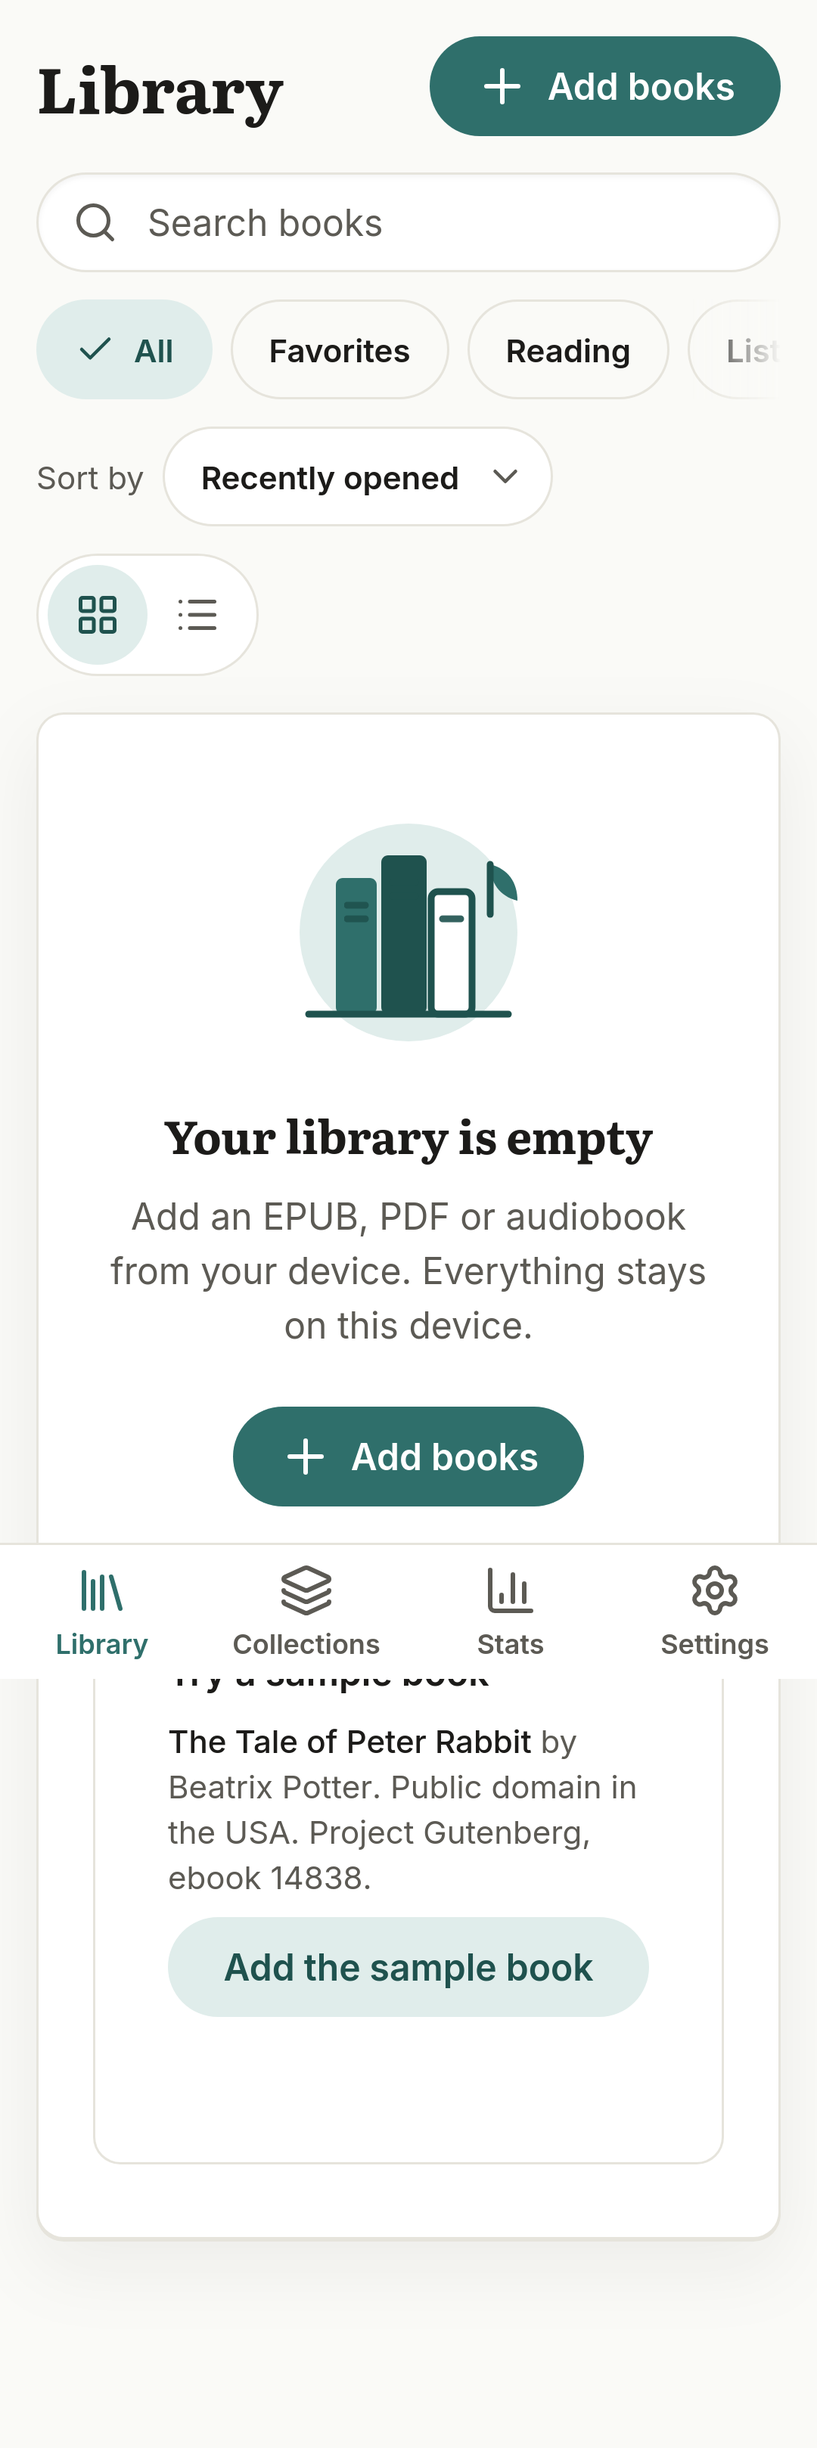
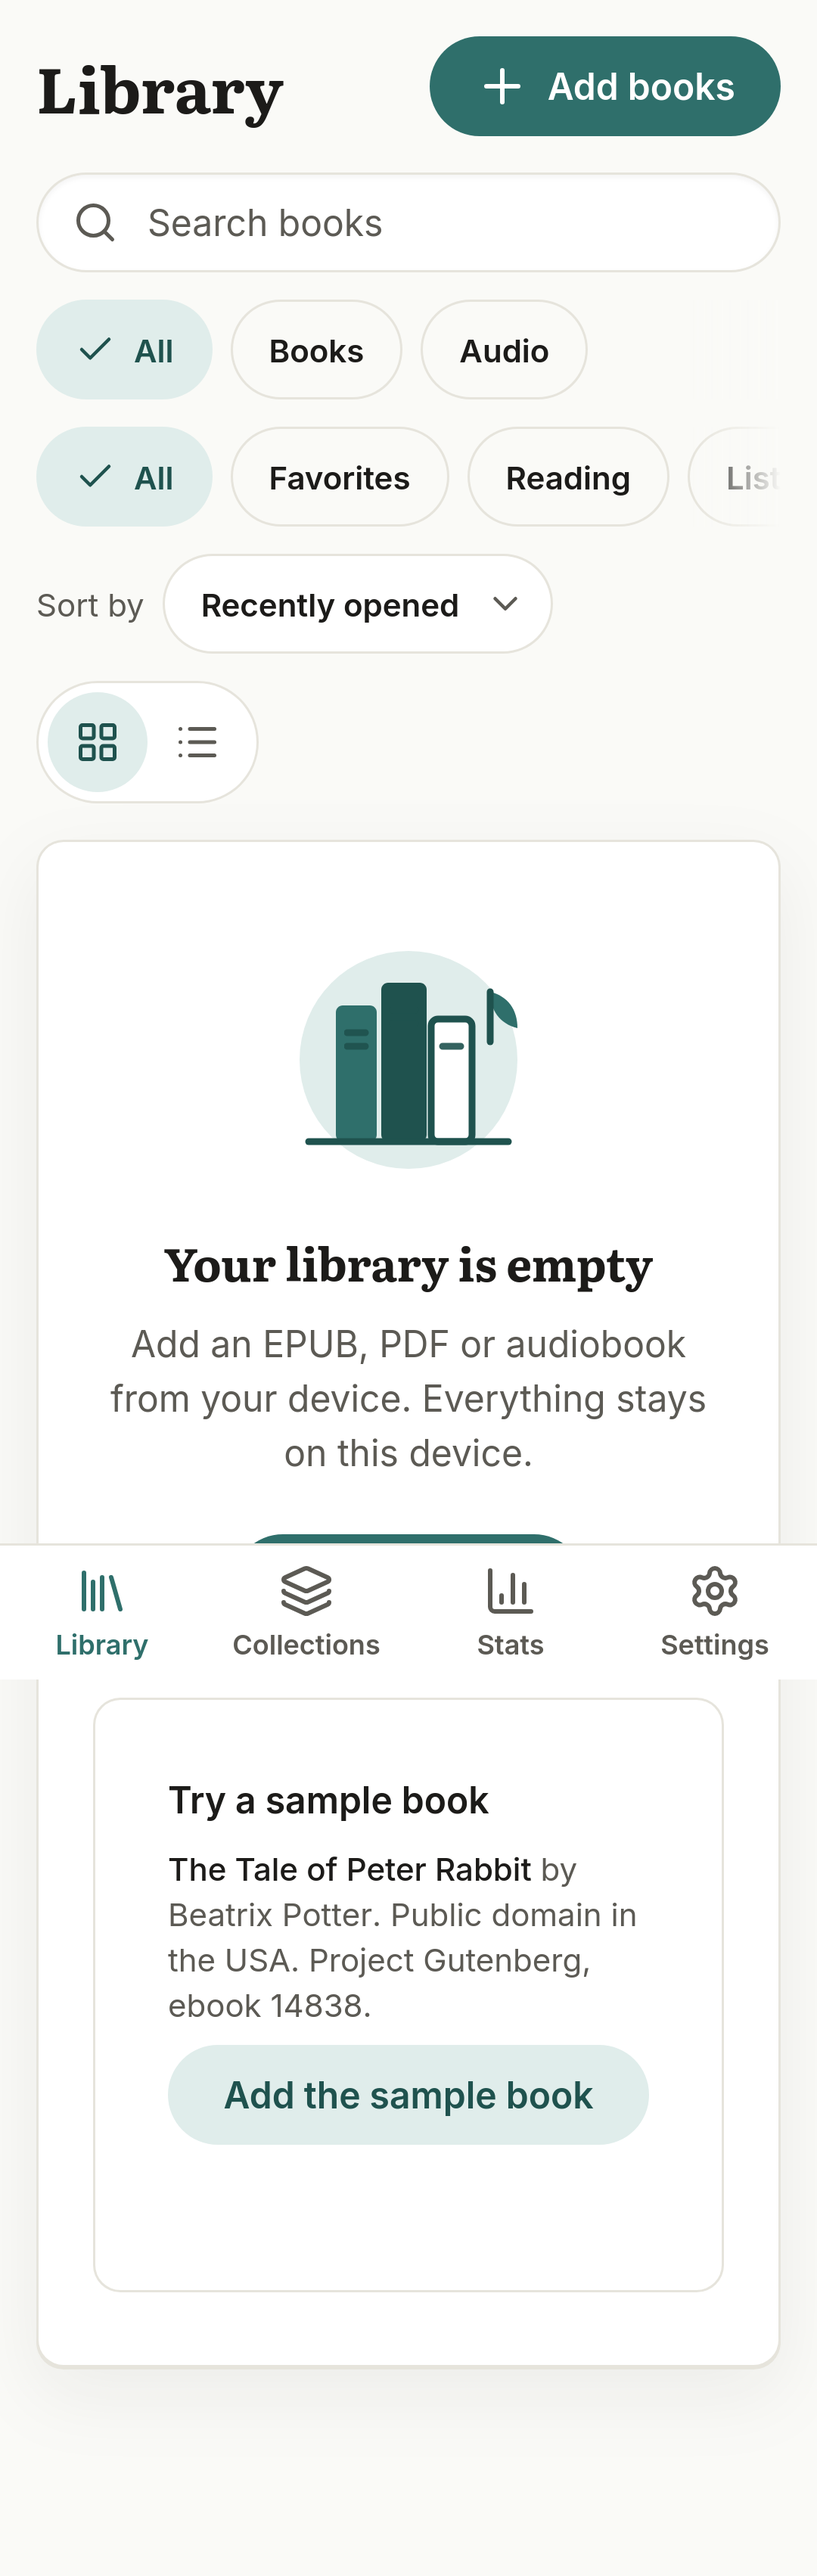
docs: live smoke screenshots and table for 109a37b (WebKit pending b7ec1fc) (#38)
* docs: live smoke @ 109a37b on Pages (Chromium shots, WebKit pending b7ec1fc)

Record smoke:live pass/fail table for main-CaS_SA7T deploy, update parity tracker,
and refresh 360px Chromium screenshots from the live run.

* docs: live smoke table for 663d74f + WebKit library/import screenshots

---------

diff --git a/docs/screens/release-smoke-live/pagenest-42f.pages.dev/README.md b/docs/screens/release-smoke-live/pagenest-42f.pages.dev/README.md
@@ -1,0 +1,43 @@
+# Live release smoke @ pagenest-42f.pages.dev
+
+360×740 Playwright profiles (`release-smoke-chromium` = Pixel 7, `release-smoke-webkit` = iPhone 14).
+
+Run:
+
+```bash
+npm run smoke:live -- https://pagenest-42f.pages.dev/
+```
+
+## Deploy `663d74f` smoke (2026-11-02)
+
+Production at `663d74f` (`b7ec1fc` asset headers + `#37` library segments). Bundle unchanged: `main-CaS_SA7T.js` / `engine-foliate-CVVxng76.js`.
+
+| Phase | Chromium | WebKit |
+|-------|----------|--------|
+| Upgrade | **PASS** | **FAIL** — foliate 240s (“Still opening…”) |
+| Core | **PASS** | **FAIL** — foliate 240s |
+| OPFS blocked | skip | skip (suite exited on WebKit) |
+| Read-aloud (device) | not run | not run |
+| Read-aloud (legacy Piper) | not run | not run |
+
+**Root cause (WebKit, live):** Document CSP still included `frame-ancestors 'none'`. WebKit refuses blob EPUB iframe loads (`Refused to load blob:… frame-ancestors`). **Fixed on `main` in `cad50b3` (#39)** — drop `frame-ancestors` from CSP; keep `X-Frame-Options: DENY`. Deploy `cad50b3` and re-run `smoke:live` for full green.
+
+**Screenshots:** Chromium full core + upgrade paths in this folder. WebKit: library / import / upgrade-import only (foliate never opened).
+
+## Deploy `109a37b` smoke (2026-11-01)
+
+| Phase | Chromium | WebKit |
+|-------|----------|--------|
+| Upgrade | **PASS** | **FAIL** — foliate 240s |
+| Core | **PASS** | **FAIL** — foliate 240s |
+
+Asset CSP/COOP on `/assets/*` fixed in **`b7ec1fc`**.
+
+## Prior merges on this host
+
+| SHA | Notes |
+|-----|--------|
+| `cad50b3` | CSP: omit `frame-ancestors` for WebKit blob EPUB (#39) — merge pending deploy |
+| `663d74f` | All / Books / Audio segments (#37) |
+| `b7ec1fc` | CSP/COOP scoped to HTML routes only (#36) |
+| `109a37b` | WebKit foliate bootstrap + sandbox strip (#35) |

diff --git a/docs/readera-parity-gaps.md b/docs/readera-parity-gaps.md
@@ -6,7 +6,7 @@ Tracking doc for owner ReadEra polish pass. **Done** items link to merge SHAs wh
 
 | Status | Gap |
 |--------|-----|
-| Open | All / Books / Audio segment (query exists, UI not wired) |
+| In PR | **All / Books / Audio segment** (`LibraryQuery.segment` wired to toolbar chips) |
 | Open | Format tag on grid/list cards |
 | Open | Collection shelf cover collages |
 | Open | Book detail: Read aloud, tabs (chapters, marks, info) |
@@ -16,8 +16,8 @@ Tracking doc for owner ReadEra polish pass. **Done** items link to merge SHAs wh
 
 | Status | Gap |
 |--------|-----|
-| In PR | **Tap zones on book content** (`doc.onTap` → turn / chrome; foliate tap x fix) |
-| Open | Page turn mode in Aa (slide / scroll / none) |
+| Done | **Tap zones on book content** (`e0ec133`, #30) |
+| Done | **Page turn mode in Aa** (`e214e66`, #31) |
 | Open | Align, hyphenation, paragraph spacing in Aa |
 | Open | Edge brightness / warm filter |
 | Open | Open &lt;1.5 s gate on imported EPUB in release smoke |
@@ -44,5 +44,6 @@ Tracking doc for owner ReadEra polish pass. **Done** items link to merge SHAs wh
 
 | Status | Gap |
 |--------|-----|
-| Done | WebKit foliate open (`f42e514` — sandbox patch for closed shadow) |
-| Open | Re-run full `smoke:live` after each parity PR with 360px screenshots |
+| Done | WebKit foliate engine fix (`109a37b` bootstrap + sandbox strip; `#35`) |
+| Done | Pages `_headers` CSP/COOP scoped to HTML only (`b7ec1fc`, `#36`) |
+| Open | Full green `smoke:live` on Pages after `b7ec1fc` deploy (360px screenshots) |
